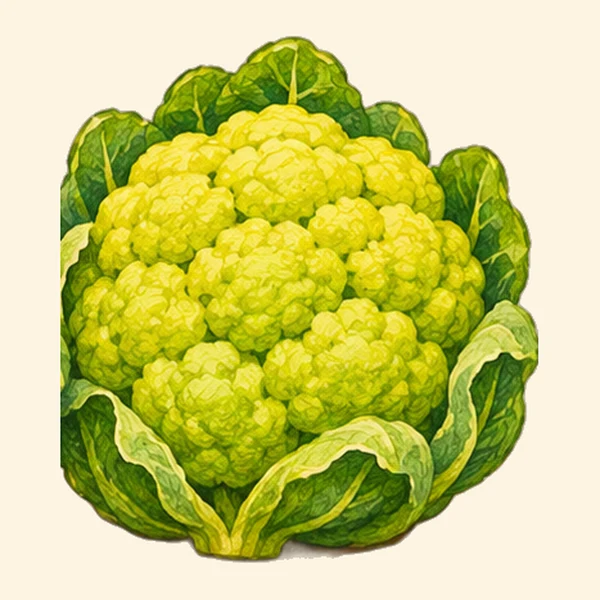
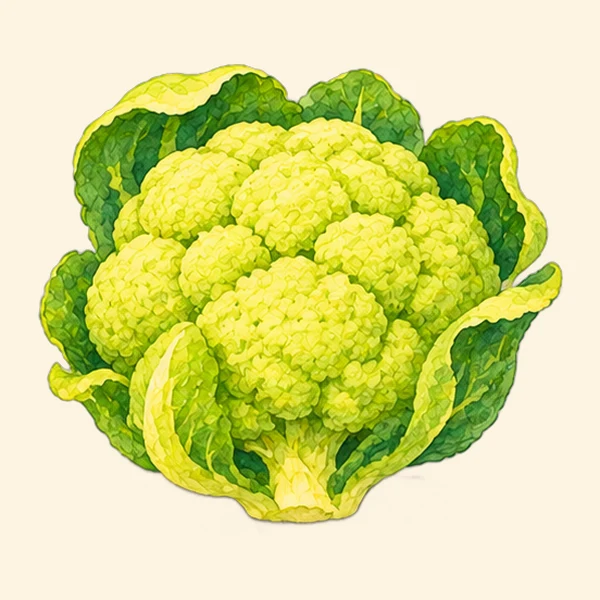
Bloemkool: 6 koppelplaatjes uit één raster; minibloemkool wordt fioretto
Claude-Session: https://claude.ai/code/session_0125tTf79SJwePaL5hw54buB

diff --git a/soepen/bloemkool/les.js b/soepen/bloemkool/les.js
@@ -122,7 +122,7 @@ LESSEN.bloemkool = {
       {key:"oranje", naam:"Oranje bloemkool", hint:"Oranje, door hetzelfde stofje als in een wortel."},
       {key:"groen", naam:"Groene bloemkool", hint:"Lichtgroen en rond, met bolletjes net als een witte."},
       {key:"romanesco", naam:"Romanesco", hint:"Lichtgroen, met puntige torentjes."},
-      {key:"mini", naam:"Minibloemkool", hint:"Zo klein dat hij in je hand past."}
+      {key:"fioretto", naam:"Fioretto", hint:"Losse roosjes op lange, dunne steeltjes. De steel eet je ook op."}
     ],
     g56:["wit","paars","oranje","groen"],   // alleen deze bij de middenbouw
     goedZo:"Ja! Dat is de {naam}.",

diff --git a/docs/bloemkool-plaatjes-chatgpt.md b/docs/bloemkool-plaatjes-chatgpt.md
@@ -36,7 +36,7 @@ Maak per bericht één plaatje. Zeg "klaar" als je het stijlblok begrijpt.
 ```
 Zes bloemkolen naast elkaar in twee rijen van drie, zonder gezichtjes, effen WITTE achtergrond, veel ruimte ertussen:
 1 witte bloemkool met groene bladeren, 2 paarse bloemkool, 3 oranje bloemkool,
-4 lichtgroene bloemkool (rond, met bolletjes), 5 romanesco met puntige torentjes, 6 een piepkleine minibloemkool.
+4 lichtgroene bloemkool (rond, met bolletjes), 5 romanesco met puntige torentjes, 6 fioretto: losse roosjes op lange dunne steeltjes.
 ```
 
 ## 5. Onderbouw
